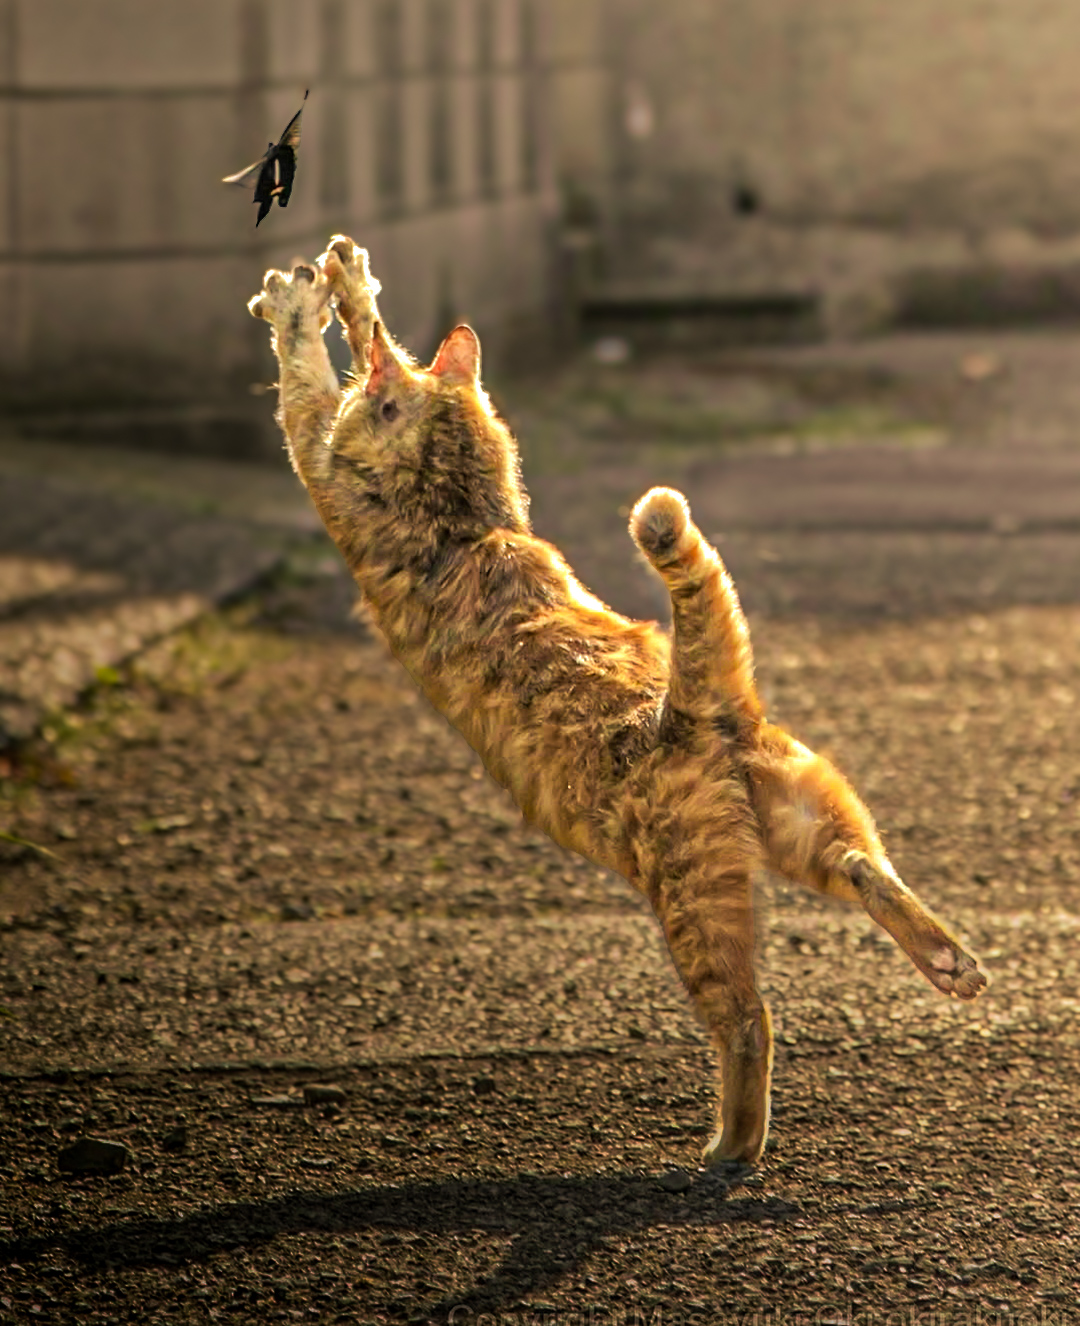
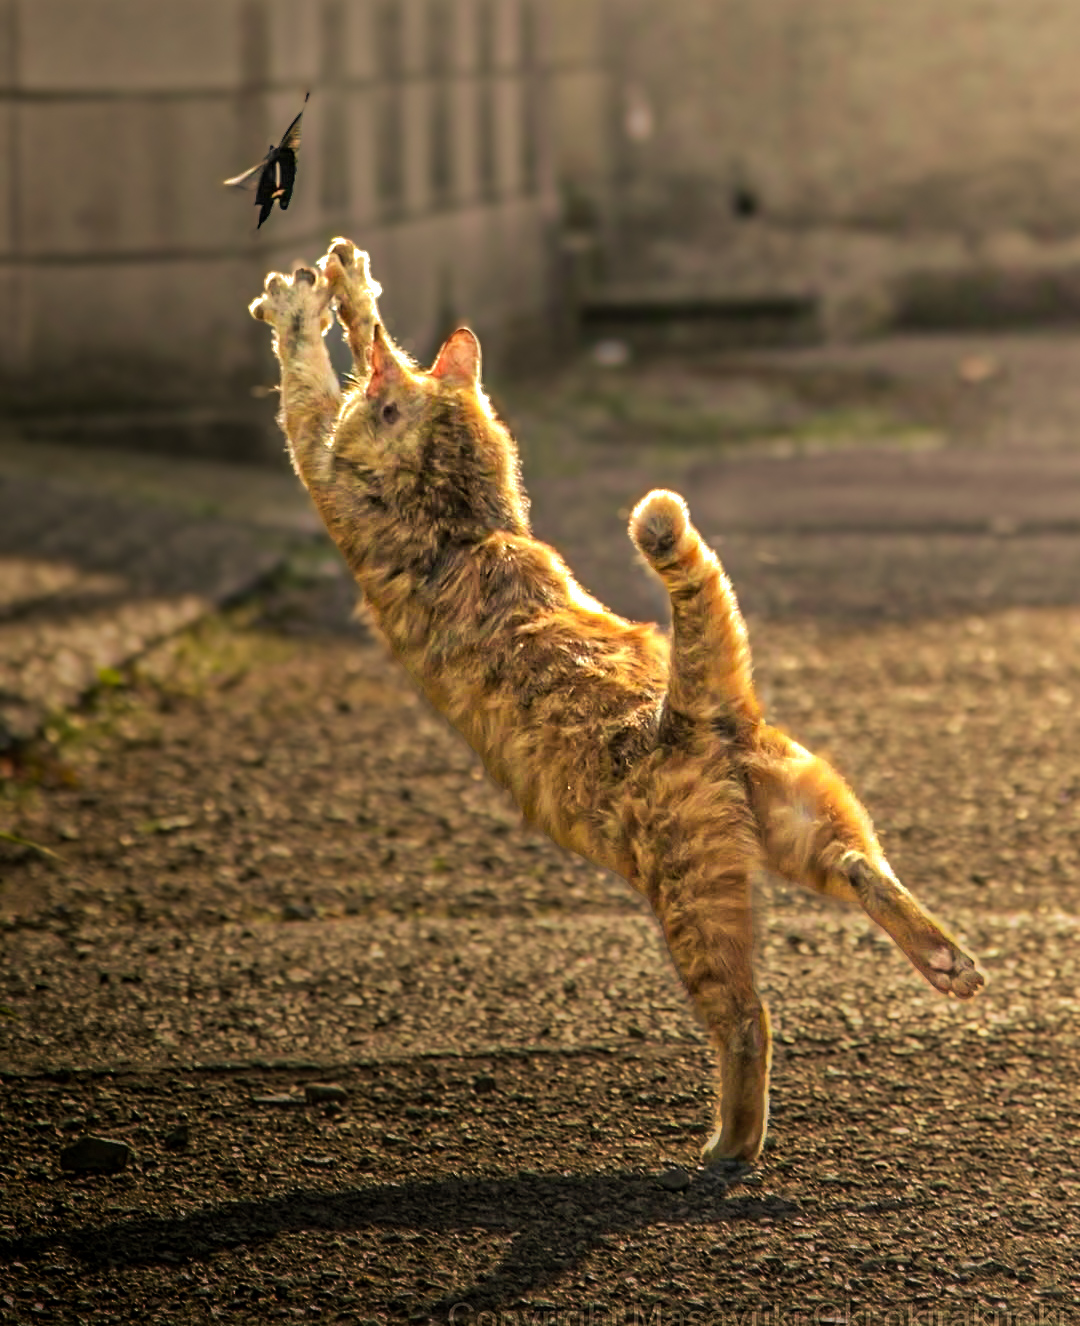
cats

Changed region(s): [[0.0, 0.5875, 1.0, 1.0], [0.2139, 0.1546, 0.7639, 0.6184], [0.2139, 0.0928, 0.275, 0.1546]]

diff --git a/src/App.js b/src/App.js
@@ -44,7 +44,6 @@ const PROJECTS = [
       'https://images.unsplash.com/photo-1495364141860-b0d03eccd065?auto=format&fit=crop&w=1200&q=80',
     },
   ];
-  
    const COLOR_GRADING = [
     { 
       id: 1, 
@@ -78,6 +77,7 @@ const PROJECTS = [
       after: 'catscg.jpg' 
      }
 ];
+
 
 function scrollToId(id) {
   document.getElementById(id)?.scrollIntoView({ behavior: 'smooth', block: 'start' });
@@ -316,6 +316,8 @@ function App() {
   const [theme, setTheme] = useState('light');
   const [heroRef, heroActive] = useRepeatableIntersect(0.08, '0px', true);
 
+  
+
   return (
     <div className="page" data-theme={theme}>
       <LiquidBackdrop />
@@ -344,7 +346,7 @@ function App() {
                 Zeeshan Kashif
               </h1>
               <p className="hero-sub">
-                  Liked by Cats 
+                  "THE" Web Developer you were looking for ... 
               
               </p>
               <div className="hero-ctas">

diff --git a/src/App.css b/src/App.css
@@ -407,6 +407,7 @@
   z-index: 10;
   opacity: 0.6;
 }
+
 .grading-card::after {
   content: '';
   position: absolute;
@@ -442,7 +443,7 @@
   background: linear-gradient(to top, rgba(0,0,0,0.9) 0%, transparent 60%);
   opacity: 0;
   transition: opacity 0.4s ease;
-  line-height: normal; /* Resets text spacing */
+ line-height: normal; /* Resets text spacing */
 }
 
 .grading-card:hover .photo-overlay {